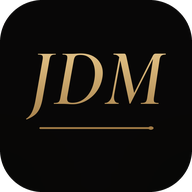
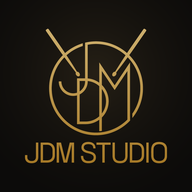
2.49.2: 앱 아이콘을 JDM STUDIO 로고로 교체
Claude-Session: https://claude.ai/code/session_01UTjdMKt4mmKY2ZrPRwQn6L

diff --git a/sw.js b/sw.js
@@ -1,5 +1,5 @@
 /* JDM 악보 플레이어 — offline cache. A new version waits until the app says "업데이트". */
-const CACHE='jdm-2.49.1-9fe4e98e06';
+const CACHE='jdm-2.49.2-2a1abce970';
 const FILES=["./", "index.html", "analyze.js", "tempo.js", "manifest.webmanifest", "icon-192.png", "icon-512.png", "icon-maskable.png", "privacy.html", "licenses.html", "vendor/pdf.min.js", "vendor/opensheetmusicdisplay.min.js", "vendor/pdf.worker.min.js", "vendor/img/logo96.png", "vendor/img/hero.jpg", "vendor/fonts/cormorant-garamond-latin-600-normal.woff2", "vendor/fonts/ibm-plex-mono-latin-600-normal.woff2", "vendor/fonts/cormorant-garamond-latin-600-italic.woff2", "vendor/fonts/ibm-plex-mono-latin-500-normal.woff2", "vendor/fonts/cormorant-garamond-latin-500-normal.woff2", "vendor/fonts/PretendardVariable.woff2", "vendor/fonts/cormorant-garamond-latin-500-italic.woff2", "vendor/fonts/serifkr/noto-serif-kr-76-600-normal.woff2", "vendor/fonts/serifkr/noto-serif-kr-108-600-normal.woff2", "vendor/fonts/serifkr/noto-serif-kr-korean-600-normal.woff2", "vendor/fonts/serifkr/noto-serif-kr-30-600-normal.woff2", "vendor/fonts/serifkr/noto-serif-kr-98-600-normal.woff2", "vendor/fonts/serifkr/noto-serif-kr-0-600-normal.woff2", "vendor/fonts/serifkr/noto-serif-kr-vietnamese-600-normal.woff2", "vendor/fonts/serifkr/noto-serif-kr-53-600-normal.woff2", "vendor/fonts/serifkr/noto-serif-kr-110-600-normal.woff2", "vendor/fonts/serifkr/noto-serif-kr-46-600-normal.woff2", "vendor/fonts/serifkr/noto-serif-kr-1-600-normal.woff2", "vendor/fonts/serifkr/noto-serif-kr-70-600-normal.woff2", "vendor/fonts/serifkr/noto-serif-kr-104-600-normal.woff2", "vendor/fonts/serifkr/noto-serif-kr-20-600-normal.woff2", "vendor/fonts/serifkr/noto-serif-kr-67-600-normal.woff2", "vendor/fonts/serifkr/noto-serif-kr-77-600-normal.woff2", "vendor/fonts/serifkr/noto-serif-kr-7-600-normal.woff2", "vendor/fonts/serifkr/noto-serif-kr-79-600-normal.woff2", "vendor/fonts/serifkr/noto-serif-kr-61-600-normal.woff2", "vendor/fonts/serifkr/noto-serif-kr-91-600-normal.woff2", "vendor/fonts/serifkr/noto-serif-kr-73-600-normal.woff2", "vendor/fonts/serifkr/noto-serif-kr-99-600-normal.woff2", "vendor/fonts/serifkr/noto-serif-kr-4-600-normal.woff2", "vendor/fonts/serifkr/noto-serif-kr-97-600-normal.woff2", "vendor/fonts/serifkr/noto-serif-kr-87-600-normal.woff2", "vendor/fonts/serifkr/noto-serif-kr-11-600-normal.woff2", "vendor/fonts/serifkr/noto-serif-kr-60-600-normal.woff2", "vendor/fonts/serifkr/noto-serif-kr-35-600-normal.woff2", "vendor/fonts/serifkr/noto-serif-kr-82-600-normal.woff2", "vendor/fonts/serifkr/noto-serif-kr-6-600-normal.woff2", "vendor/fonts/serifkr/noto-serif-kr-112-600-normal.woff2", "vendor/fonts/serifkr/noto-serif-kr-80-600-normal.woff2", "vendor/fonts/serifkr/noto-serif-kr-93-600-normal.woff2", "vendor/fonts/serifkr/noto-serif-kr-14-600-normal.woff2", "vendor/fonts/serifkr/noto-serif-kr-19-600-normal.woff2", "vendor/fonts/serifkr/noto-serif-kr-47-600-normal.woff2", "vendor/fonts/serifkr/noto-serif-kr-92-600-normal.woff2", "vendor/fonts/serifkr/noto-serif-kr-45-600-normal.woff2", "vendor/fonts/serifkr/noto-serif-kr-cyrillic-600-normal.woff2", "vendor/fonts/serifkr/noto-serif-kr-88-600-normal.woff2", "vendor/fonts/serifkr/noto-serif-kr-49-600-normal.woff2", "vendor/fonts/serifkr/noto-serif-kr-65-600-normal.woff2", "vendor/fonts/serifkr/noto-serif-kr-29-600-normal.woff2", "vendor/fonts/serifkr/noto-serif-kr-9-600-normal.woff2", "vendor/fonts/serifkr/noto-serif-kr-116-600-normal.woff2", "vendor/fonts/serifkr/noto-serif-kr-32-600-normal.woff2", "vendor/fonts/serifkr/noto-serif-kr-86-600-normal.woff2", "vendor/fonts/serifkr/noto-serif-kr-115-600-normal.woff2", "vendor/fonts/serifkr/noto-serif-kr-33-600-normal.woff2", "vendor/fonts/serifkr/noto-serif-kr-64-600-normal.woff2", "vendor/fonts/serifkr/noto-serif-kr-78-600-normal.woff2", "vendor/fonts/serifkr/noto-serif-kr-95-600-normal.woff2", "vendor/fonts/serifkr/noto-serif-kr-63-600-normal.woff2", "vendor/fonts/serifkr/noto-serif-kr-84-600-normal.woff2", "vendor/fonts/serifkr/noto-serif-kr-59-600-normal.woff2", "vendor/fonts/serifkr/noto-serif-kr-85-600-normal.woff2", "vendor/fonts/serifkr/noto-serif-kr-81-600-normal.woff2", "vendor/fonts/serifkr/noto-serif-kr-111-600-normal.woff2", "vendor/fonts/serifkr/noto-serif-kr-39-600-normal.woff2", "vendor/fonts/serifkr/noto-serif-kr-10-600-normal.woff2", "vendor/fonts/serifkr/noto-serif-kr-74-600-normal.woff2", "vendor/fonts/serifkr/noto-serif-kr-21-600-normal.woff2", "vendor/fonts/serifkr/noto-serif-kr-119-600-normal.woff2", "vendor/fonts/serifkr/noto-serif-kr-16-600-normal.woff2", "vendor/fonts/serifkr/noto-serif-kr-8-600-normal.woff2", "vendor/fonts/serifkr/noto-serif-kr-118-600-normal.woff2", "vendor/fonts/serifkr/noto-serif-kr-41-600-normal.woff2", "vendor/fonts/serifkr/noto-serif-kr-55-600-normal.woff2", "vendor/fonts/serifkr/noto-serif-kr-103-600-normal.woff2", "vendor/fonts/serifkr/noto-serif-kr-101-600-normal.woff2", "vendor/fonts/serifkr/noto-serif-kr-17-600-normal.woff2", "vendor/fonts/serifkr/noto-serif-kr-18-600-normal.woff2", "vendor/fonts/serifkr/noto-serif-kr-36-600-normal.woff2", "vendor/fonts/serifkr/noto-serif-kr-75-600-normal.woff2", "vendor/fonts/serifkr/noto-serif-kr-51-600-normal.woff2", "vendor/fonts/serifkr/noto-serif-kr-28-600-normal.woff2", "vendor/fonts/serifkr/noto-serif-kr-43-600-normal.woff2", "vendor/fonts/serifkr/noto-serif-kr-89-600-normal.woff2", "vendor/fonts/serifkr/noto-serif-kr-40-600-normal.woff2", "vendor/fonts/serifkr/noto-serif-kr-44-600-normal.woff2", "vendor/fonts/serifkr/noto-serif-kr-12-600-normal.woff2", "vendor/fonts/serifkr/noto-serif-kr-57-600-normal.woff2", "vendor/fonts/serifkr/noto-serif-kr-102-600-normal.woff2", "vendor/fonts/serifkr/noto-serif-kr-38-600-normal.woff2", "vendor/fonts/serifkr/noto-serif-kr-31-600-normal.woff2", "vendor/fonts/serifkr/noto-serif-kr-114-600-normal.woff2", "vendor/fonts/serifkr/noto-serif-kr-22-600-normal.woff2", "vendor/fonts/serifkr/noto-serif-kr-90-600-normal.woff2", "vendor/fonts/serifkr/noto-serif-kr-3-600-normal.woff2", "vendor/fonts/serifkr/noto-serif-kr-26-600-normal.woff2", "vendor/fonts/serifkr/noto-serif-kr-58-600-normal.woff2", "vendor/fonts/serifkr/noto-serif-kr-94-600-normal.woff2", "vendor/fonts/serifkr/noto-serif-kr-23-600-normal.woff2", "vendor/fonts/serifkr/noto-serif-kr-117-600-normal.woff2", "vendor/fonts/serifkr/noto-serif-kr-105-600-normal.woff2", "vendor/fonts/serifkr/noto-serif-kr-15-600-normal.woff2", "vendor/fonts/serifkr/noto-serif-kr-50-600-normal.woff2", "vendor/fonts/serifkr/noto-serif-kr-109-600-normal.woff2", "vendor/fonts/serifkr/noto-serif-kr-83-600-normal.woff2", "vendor/fonts/serifkr/noto-serif-kr-27-600-normal.woff2", "vendor/fonts/serifkr/noto-serif-kr-2-600-normal.woff2", "vendor/fonts/serifkr/noto-serif-kr-71-600-normal.woff2", "vendor/fonts/serifkr/noto-serif-kr-52-600-normal.woff2", "vendor/fonts/serifkr/noto-serif-kr-13-600-normal.woff2", "vendor/fonts/serifkr/noto-serif-kr-113-600-normal.woff2", "vendor/fonts/serifkr/noto-serif-kr-56-600-normal.woff2", "vendor/fonts/serifkr/noto-serif-kr-37-600-normal.woff2", "vendor/fonts/serifkr/noto-serif-kr-latin-600-normal.woff2", "vendor/fonts/serifkr/noto-serif-kr-54-600-normal.woff2", "vendor/fonts/serifkr/noto-serif-kr-100-600-normal.woff2", "vendor/fonts/serifkr/noto-serif-kr-24-600-normal.woff2", "vendor/fonts/serifkr/noto-serif-kr-25-600-normal.woff2", "vendor/fonts/serifkr/noto-serif-kr-62-600-normal.woff2", "vendor/fonts/serifkr/noto-serif-kr-48-600-normal.woff2", "vendor/fonts/serifkr/noto-serif-kr-42-600-normal.woff2", "vendor/fonts/serifkr/noto-serif-kr-5-600-normal.woff2", "vendor/fonts/serifkr/noto-serif-kr-66-600-normal.woff2", "vendor/fonts/serifkr/noto-serif-kr-69-600-normal.woff2", "vendor/fonts/serifkr/noto-serif-kr-34-600-normal.woff2", "vendor/fonts/serifkr/noto-serif-kr-107-600-normal.woff2", "vendor/fonts/serifkr/noto-serif-kr-106-600-normal.woff2", "vendor/fonts/serifkr/noto-serif-kr-68-600-normal.woff2", "vendor/fonts/serifkr/noto-serif-kr-96-600-normal.woff2", "vendor/fonts/serifkr/noto-serif-kr-72-600-normal.woff2", "vendor/fonts/serifkr/noto-serif-kr-latin-ext-600-normal.woff2"];
 self.addEventListener('install',e=>{e.waitUntil(caches.open(CACHE).then(c=>c.addAll(FILES)))});
 self.addEventListener('activate',e=>{e.waitUntil(caches.keys().then(ks=>Promise.all(ks.filter(k=>k!==CACHE).map(k=>caches.delete(k)))).then(()=>self.clients.claim()))});

diff --git a/index.html b/index.html
@@ -3968,7 +3968,7 @@ window.addEventListener('load',()=>setTimeout(()=>{try{const lo=document.getElem
 <script>
 /* ===== app behaviour (installed on a phone / from the store) ===== */
 (function(){const $=id=>document.getElementById(id);
-  const APP_VER='2.49.1';{const v=$('appVer');if(v)v.textContent='v'+APP_VER}
+  const APP_VER='2.49.2';{const v=$('appVer');if(v)v.textContent='v'+APP_VER}
   // ---- Android back button: closes what is open (menu, settings, search...) instead of leaving the app
   const OV=[['moreSheet',()=>$('msClose').click()],['ytSearch',()=>closeSearch()],['syncPop',()=>$('spClose').click()],['tapFix',()=>$('tfCancel').click()],
     ['libOv',()=>{const b=document.querySelector('#libOv .sp-x,#libOv [data-close],#libClose');b?b.click():($('libOv').hidden=true)}],
